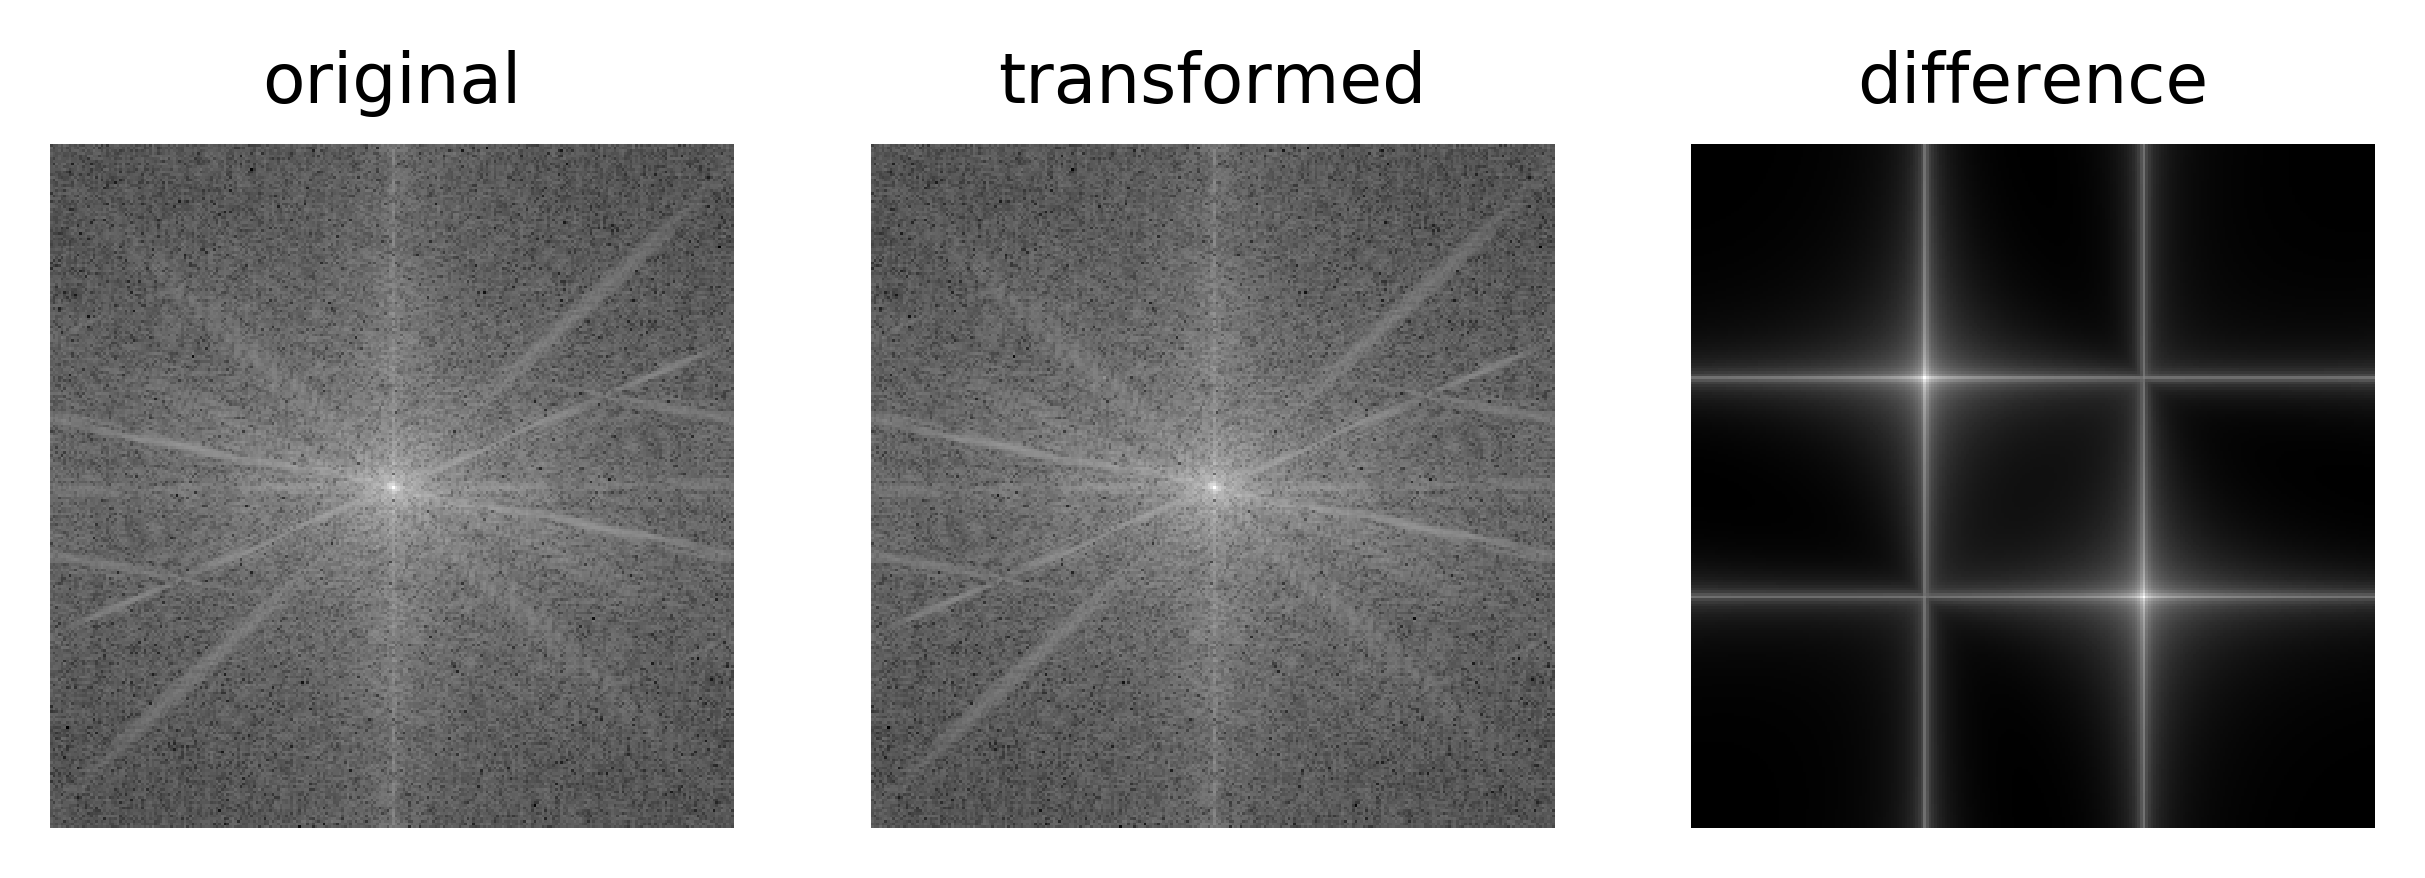
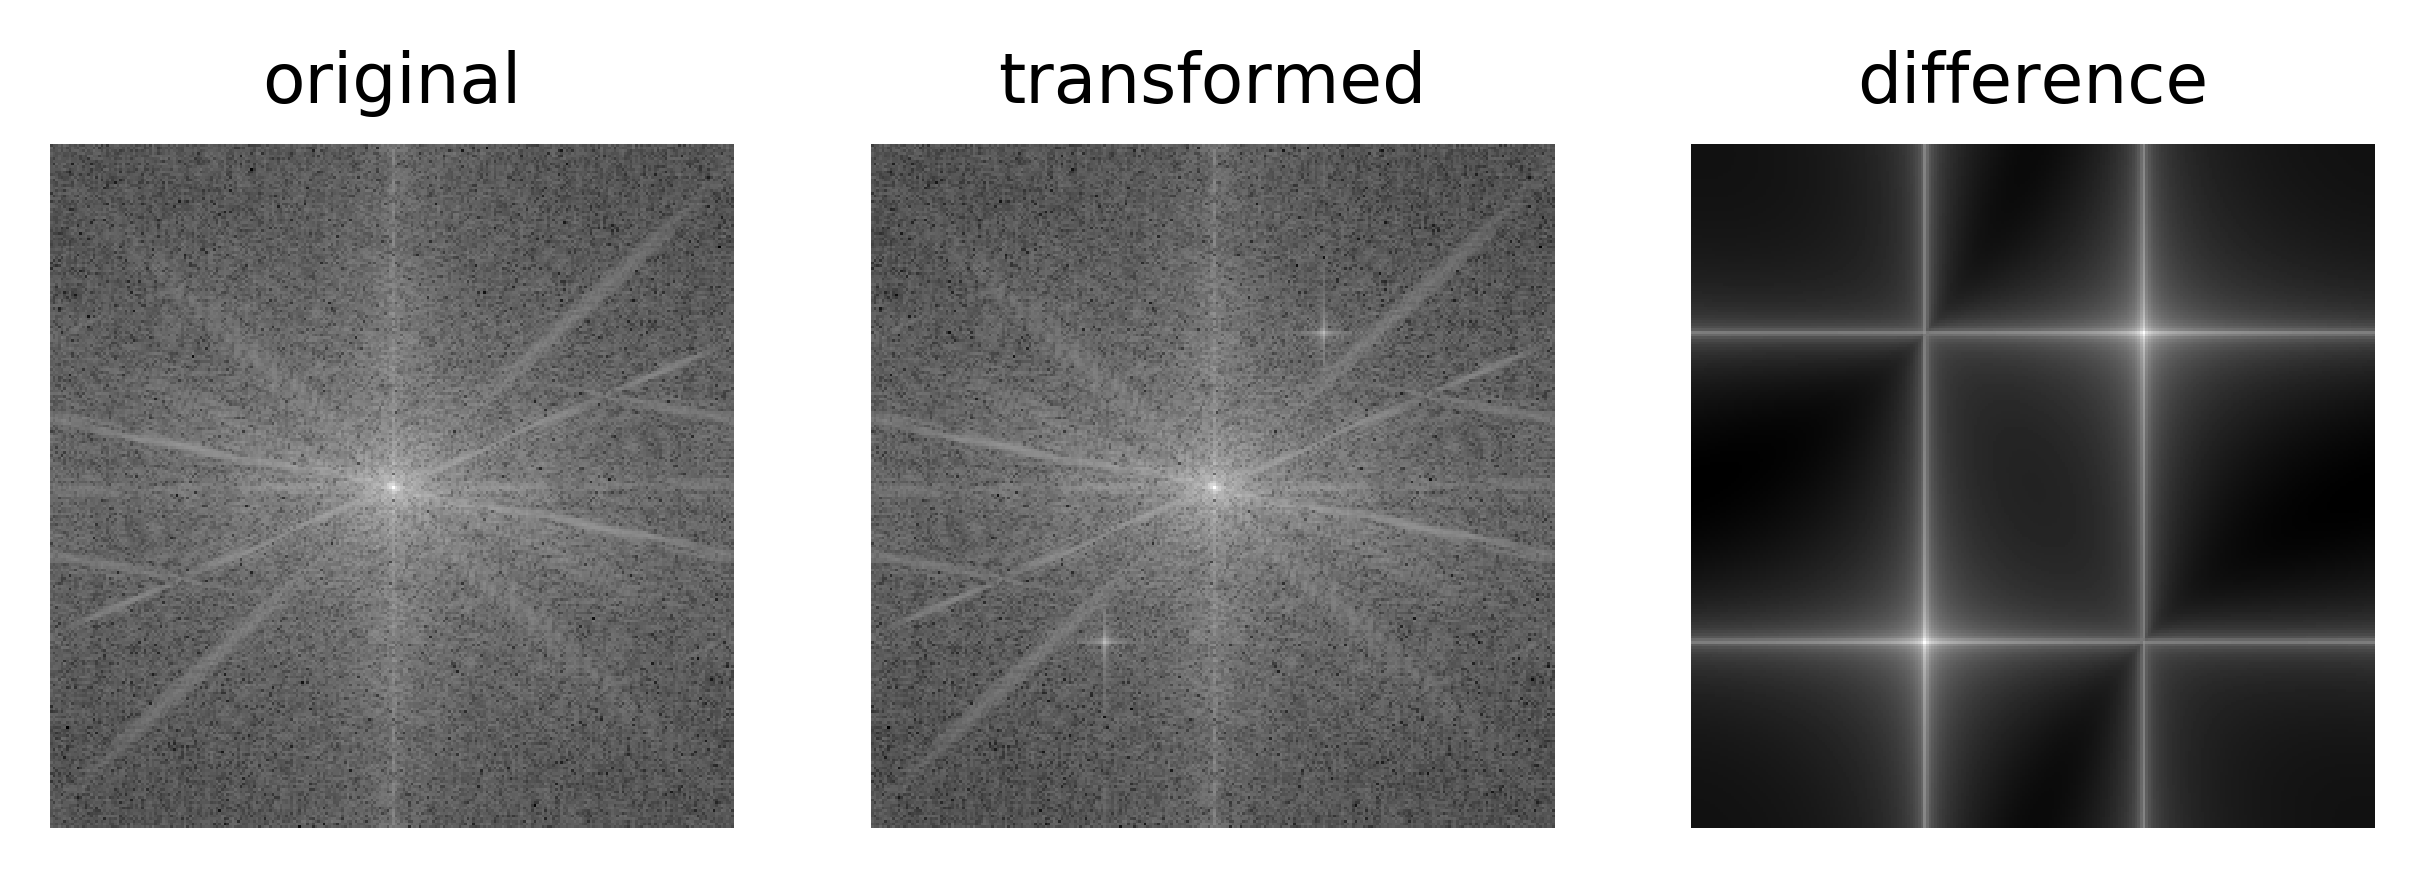
Design a filter, which removes any such planar waves given v0 and w0.

diff --git a/src/main.py b/src/main.py
@@ -299,6 +299,53 @@ def addValue(img, func):
     return res
 
 
+def removePlanarWaves(img,v,w, a=1):
+    '''
+    removes planarWaves on form a cos(v*x,w*y) from an image. with a = 1. 
+    Where x and y are coordiantes of the image. 
+    
+    Parameters
+    ----------
+    img : TYPE, 2dArray
+        DESCRIPTION. an image to be transformed
+    v: TYPE float
+        DESCRIPTION weight multiplied with the x paremeter
+    w: TYPE float
+        DESCRIPTION weight multiplied with the y paremeter
+    Returns
+    -------
+    img: TYPE 2dArray
+        DESCRIPTION a transformed copy of the original image
+    '''
+    
+    # compute waves cos(v*x +w*y)
+    waves = np.zeros_like(img)
+    cosf = coswave(a,v,w)
+    waves = addValue(waves, cosf.func)
+    
+    # take powerspecturm of coswaves
+    
+    powerWaves = sip3.powerSpectrum(waves)
+    
+    powerWaves = fftpack.fft2(waves)
+    
+    
+    # subtract power spectrum from original images power spectrum
+    
+    powerImg = fftpack.fft2(img)
+
+    powerRes = np.subtract(powerImg, powerWaves)
+    
+    # revert transformation
+    result = fftpack.ifft(powerRes)
+    
+    return result
+    
+    
+    
+    
+
+
 def exer3(path):
     '''
     Write a program that adds the function a0cos(v0x + w0y) to cameraman.tif. Compute and
@@ -306,12 +353,16 @@ def exer3(path):
     waves given v0 and w0.
     
     '''
-        
+       
+    # parameters used in the a * cos(v*x+ w*y) function in the transformation
+    a = 10 
+    v = 30
+    w = 1
          
     #  calculate the power spectrum of trui.png
     img = np.array(color.rgb2gray(io.imread("cameraman.tif").astype(float)))
        
-    cosf = coswave(1,1,1)
+    cosf = coswave(a,v,w)
     
     imgtransformed = addValue(img,cosf.func)
     
@@ -354,7 +405,46 @@ def exer3(path):
     close()
     
 
+    ## remove waves
 
+    removedPlanar = removePlanarWaves(imgtransformed, v, w)
+
+    realRemovedPlanar = np.real(removedPlanar)
+
+    print(realRemovedPlanar)
+
+    lower0= realRemovedPlanar - (np.min(realRemovedPlanar))
+
+    realRemovedPlanar = 255 * (lower0/np.max(lower0))
+
+    print(realRemovedPlanar)
+
+
+    diffbefore = imgtransformed - img
+
+    diffwaves =  imgtransformed - realRemovedPlanar
+ 
+    difforiginal = diffwaves - img
+
+    
+    
+    plt.figure
+
+    subplot(1,4,1)
+    sip3.plotImage(gca(), imgtransformed, "(a)", gray=True)
+
+    subplot(1,4,2)
+    sip3.plotImage(gca(), diffbefore, "(b)", gray=True)
+
+    subplot(1,4,3)
+    sip3.plotImage(gca(), diffwaves, "(c)", gray=True)
+
+    subplot(1,4,4)
+    sip3.plotImage(gca(), difforiginal, "(d)", gray=True)
+
+    sip3.savefig1(path + '2-3-reverseWaves' + ",a={},v={},w={}".format(a,v,w) + ".png")
+    close()
+    
 
     
 
